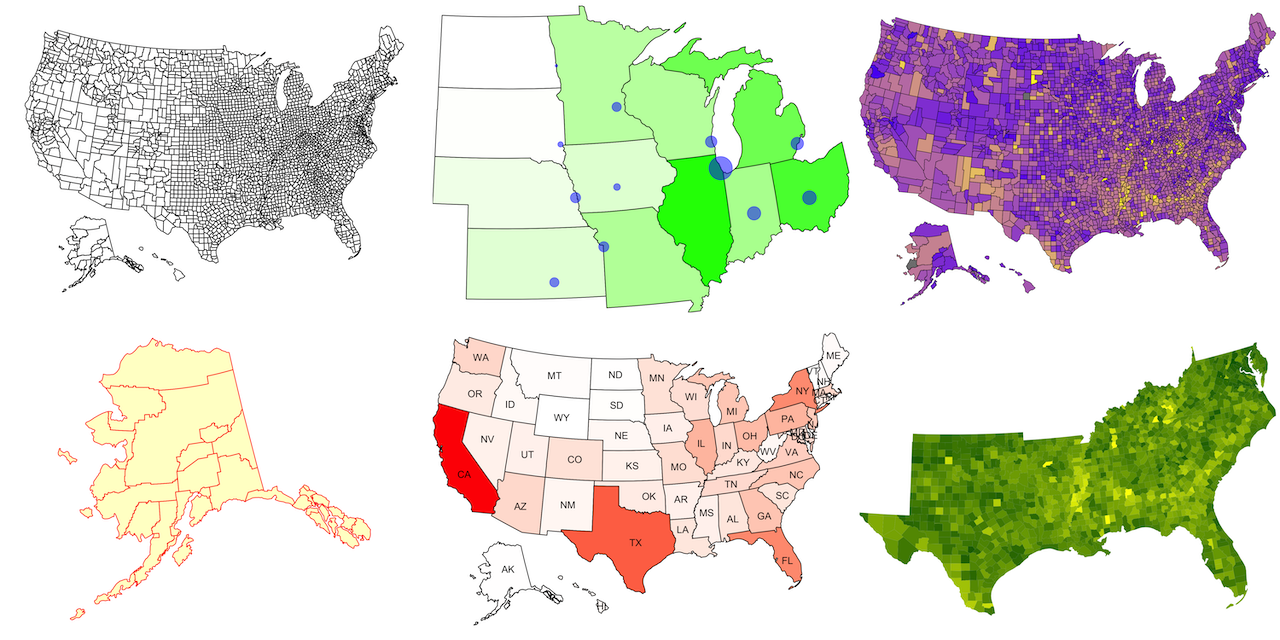
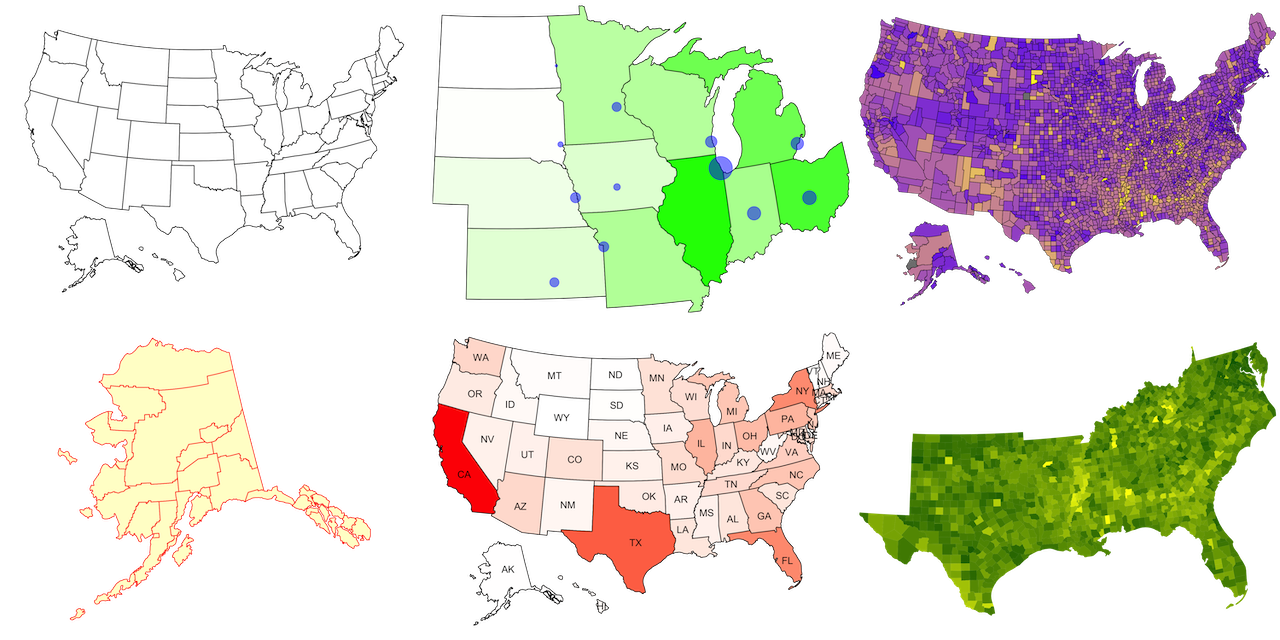
Add transparency to README plots

diff --git a/README.md b/README.md
@@ -144,7 +144,7 @@ plot_usmap("counties", data = countypov, values = "pct_pov_2014", include = "FL"
 plot_usmap("counties", data = countypop, values = "pop_2015", include = .new_england) + 
     ggplot2::scale_fill_continuous(low = "blue", high = "yellow", guide = FALSE)
 ```
-<p align="center"><img src="https://raw.githubusercontent.com/pdil/usmap/master/resources/example-mountain-states.png" width="33%" /><img src="https://raw.githubusercontent.com/pdil/usmap/master/resources/example-florida-counties.png" width="33%" /><img src="https://raw.githubusercontent.com/pdil/usmap/master/resources/example-new-england-counties.png" width="33%" /></p>
+<p align="center"><img src="https://raw.githubusercontent.com/pdil/usmap/master/resources/example-usage.png" /></p>
 
 ## Additional Information
 
